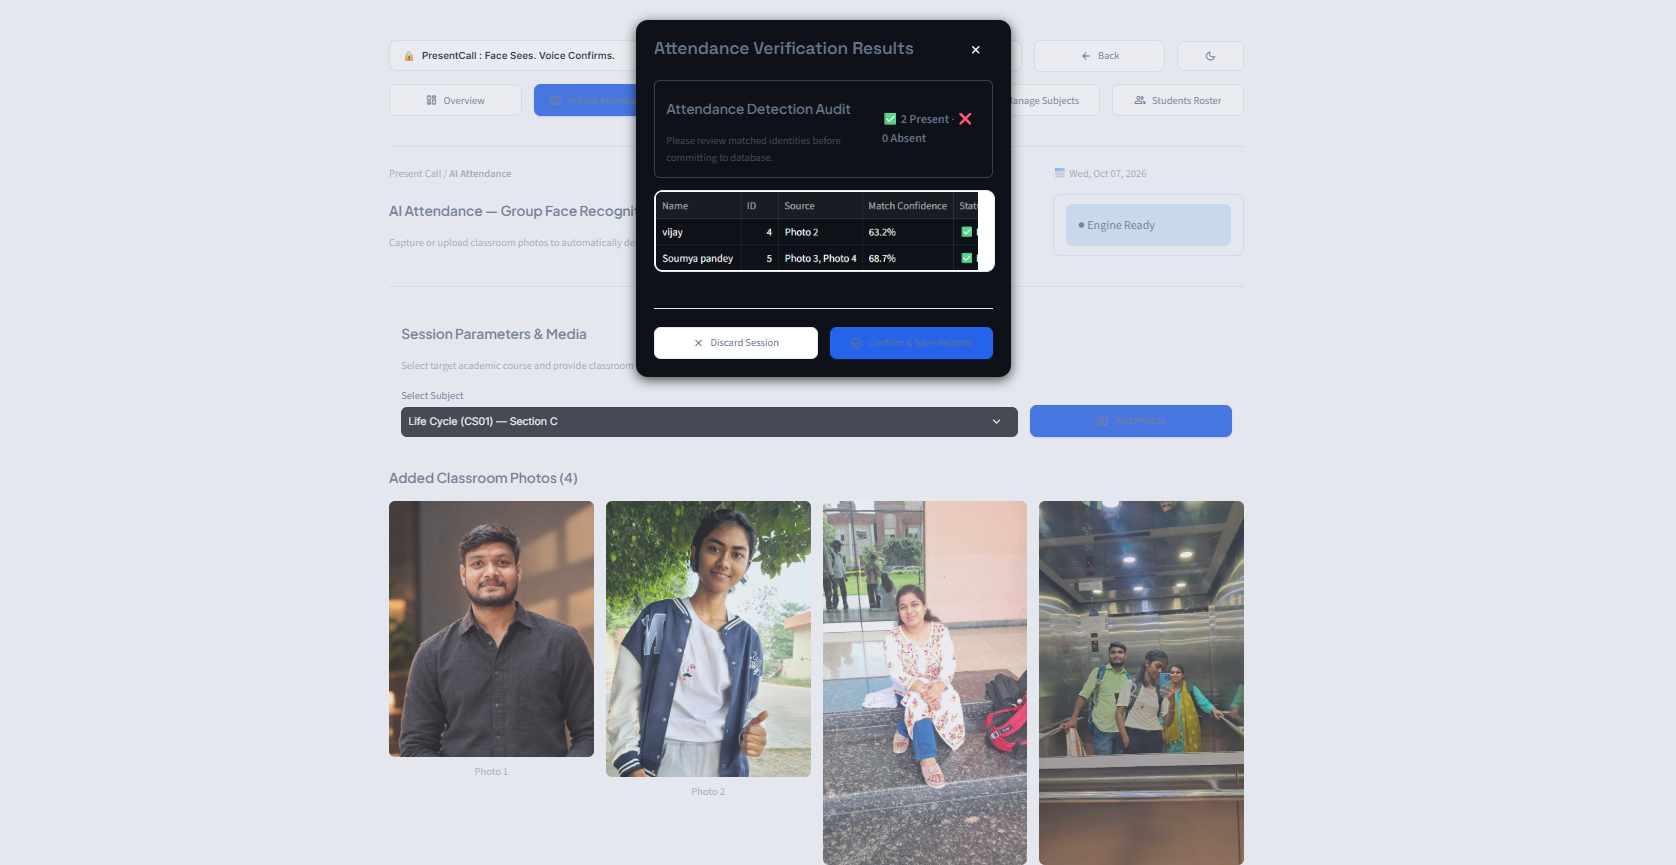
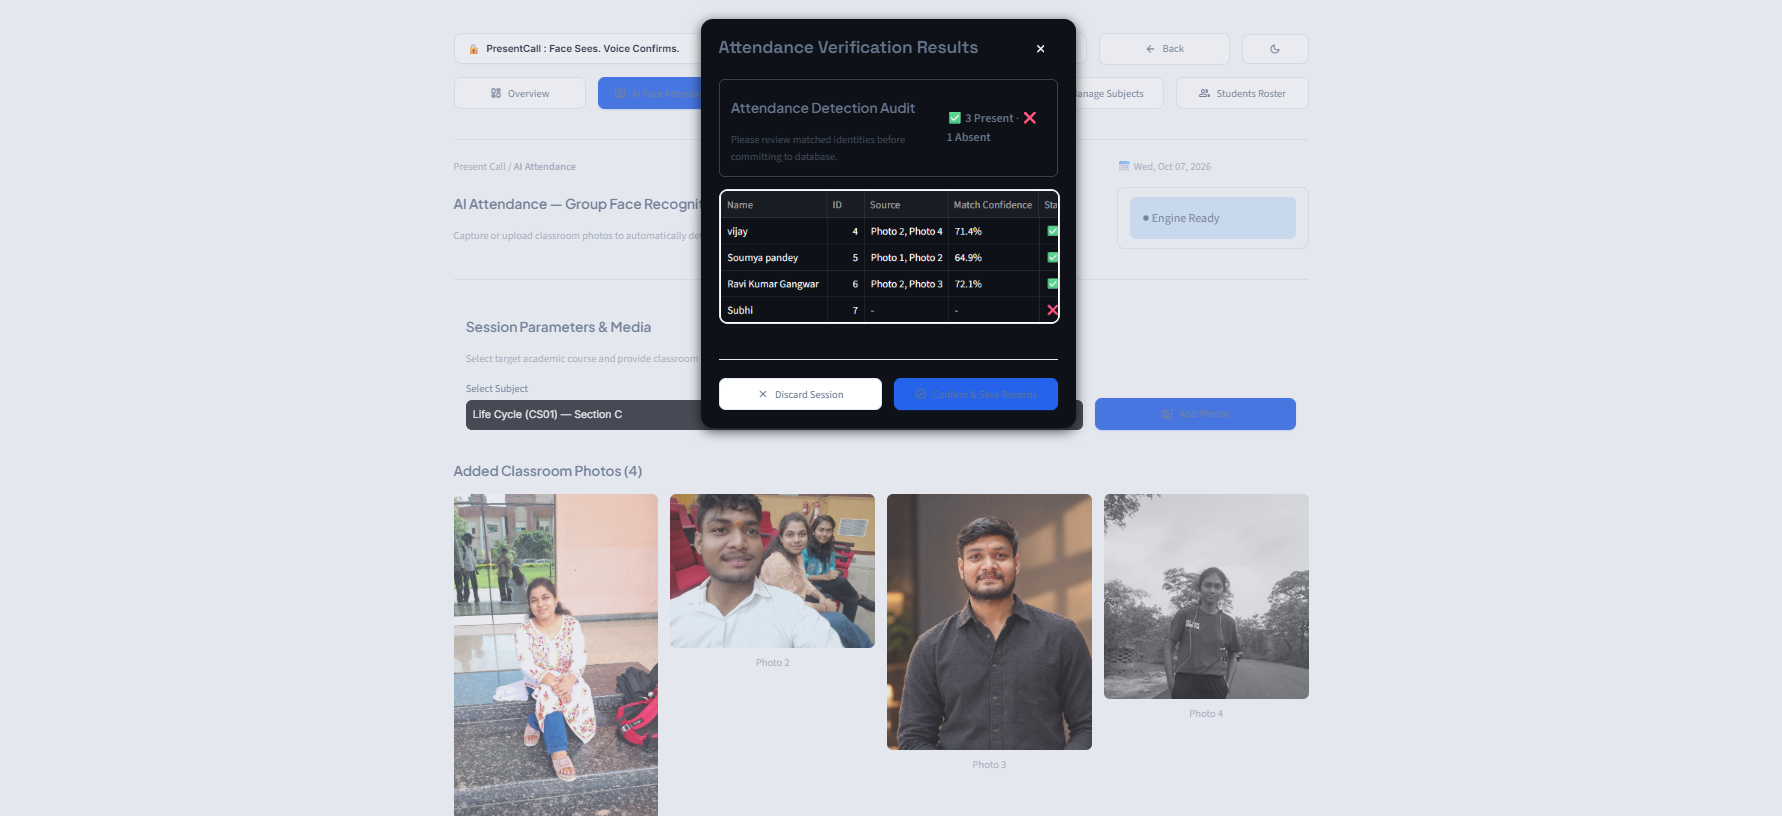
footer updated

Changed region(s): [[0.2172, 0.0, 0.7446, 1.0], [0.5895, 0.0919, 0.6516, 0.1225], [0.6826, 0.0919, 0.7136, 0.1225]]

diff --git a/templates/index.html b/templates/index.html
@@ -65,7 +65,7 @@
     <header class="hero">
         <div class="badge">
             <span class="badge-dot"></span>
-            AI Biometrics Engine with Anti-spoofing &bull; Realtime Sync
+           Biometrics Engine with Anti-spoofing &bull; Realtime Sync
         </div>
 
         <h1>AI-Powered Attendance Management for <span>Modern Institutions</span></h1>
@@ -1205,8 +1205,9 @@
                 <ul>
                     <li><a href="#demo-portal">Live Dashboard</a></li>
                     <li><a href="#demo-portal">Attendance Records</a></li>
-                    <li><a href="#demo-portal">AI Biometrics Studio</a></li>
                     <li><a href="#tech">System Architecture</a></li>
+                    <li><a href="#demo-portal">AI Biometrics Studio</a></li>
+
                 </ul>
             </div>
 
@@ -1221,12 +1222,12 @@
             </div>
 
             <div class="footer-links">
-                <h4>Platform</h4>
+                <h4>Developers</h4>
                 <ul>
                     <li><a href="https://presentcall.streamlit.app/" target="_blank" rel="noopener">Streamlit Production App ↗</a></li>
-                    <li><a href="#">Security &amp; Encryption</a></li>
-                    <li><a href="#">Privacy Policy</a></li>
-                    <li><a href="#">Terms of Service</a></li>
+                    <li><a href="https://p-vijay.vercel.app/" target="_blank" rel="noopener">Priyanshu Vijay</a></li>
+                    <li><a href="https://ravi-kumar-gangwar.vercel.app/" target="_blank" rel="noopener">Ravi Kumar Gangwar</a></li>
+                    <li><a href="https://soumyapandey-763.github.io/my-portfolio/" target="_blank" rel="noopener">Soumya Pandey</a></li>
                 </ul>
             </div>
         </div>
@@ -1236,7 +1237,11 @@
                 &copy; 2026 Present Call. Multi-Modal Biometric Framework for Proxy-Resistant.
             </div>
             <div class="footer-legal">
-                <a >Present Call : Face Sees. Voice Confirms.</a>
+                <a href="https://mail.google.com/mail/?view=cm&fs=1&to=priyanshuvijay262@gmail.com" target="_blank" rel="noopener noreferrer" aria-label="Email Priyanshu Vijay" class="footer-email-link" title="Send email to priyanshuvijay262@gmail.com">
+                    <svg viewBox="0 0 24 24" aria-hidden="true" focusable="false">
+                        <path d="M4 6.75A2.75 2.75 0 0 1 6.75 4h10.5A2.75 2.75 0 0 1 20 6.75v10.5A2.75 2.75 0 0 1 17.25 20H6.75A2.75 2.75 0 0 1 4 17.25V6.75Zm2.2-.5 6.8 5.45 6.8-5.45H6.2Zm13.55 2.35-6.08 4.86a1 1 0 0 1-1.34 0L4.25 8.6v8.65c0 .69.56 1.25 1.25 1.25h12.99c.69 0 1.25-.56 1.25-1.25V8.6Z" fill="currentColor"/>
+                    </svg>
+                </a>
             </div>
         </div>
     </footer>

diff --git a/static/css/style.css b/static/css/style.css
@@ -2552,6 +2552,30 @@ button, input, select {
     transition: color var(--transition-fast);
 }
 
+.footer-email-link {
+    display: inline-flex;
+    align-items: center;
+    justify-content: center;
+    width: 32px;
+    height: 32px;
+    border-radius: 50%;
+    background: rgba(148, 163, 184, 0.12);
+    border: 1px solid rgba(148, 163, 184, 0.2);
+    transition: all var(--transition-fast);
+}
+
+.footer-email-link svg {
+    width: 16px;
+    height: 16px;
+    flex-shrink: 0;
+}
+
+.footer-email-link:hover {
+    background: rgba(59, 130, 246, 0.12);
+    border-color: rgba(59, 130, 246, 0.35);
+    color: #ffffff;
+}
+
 .footer-legal a:hover {
     color: #ffffff;
 }
